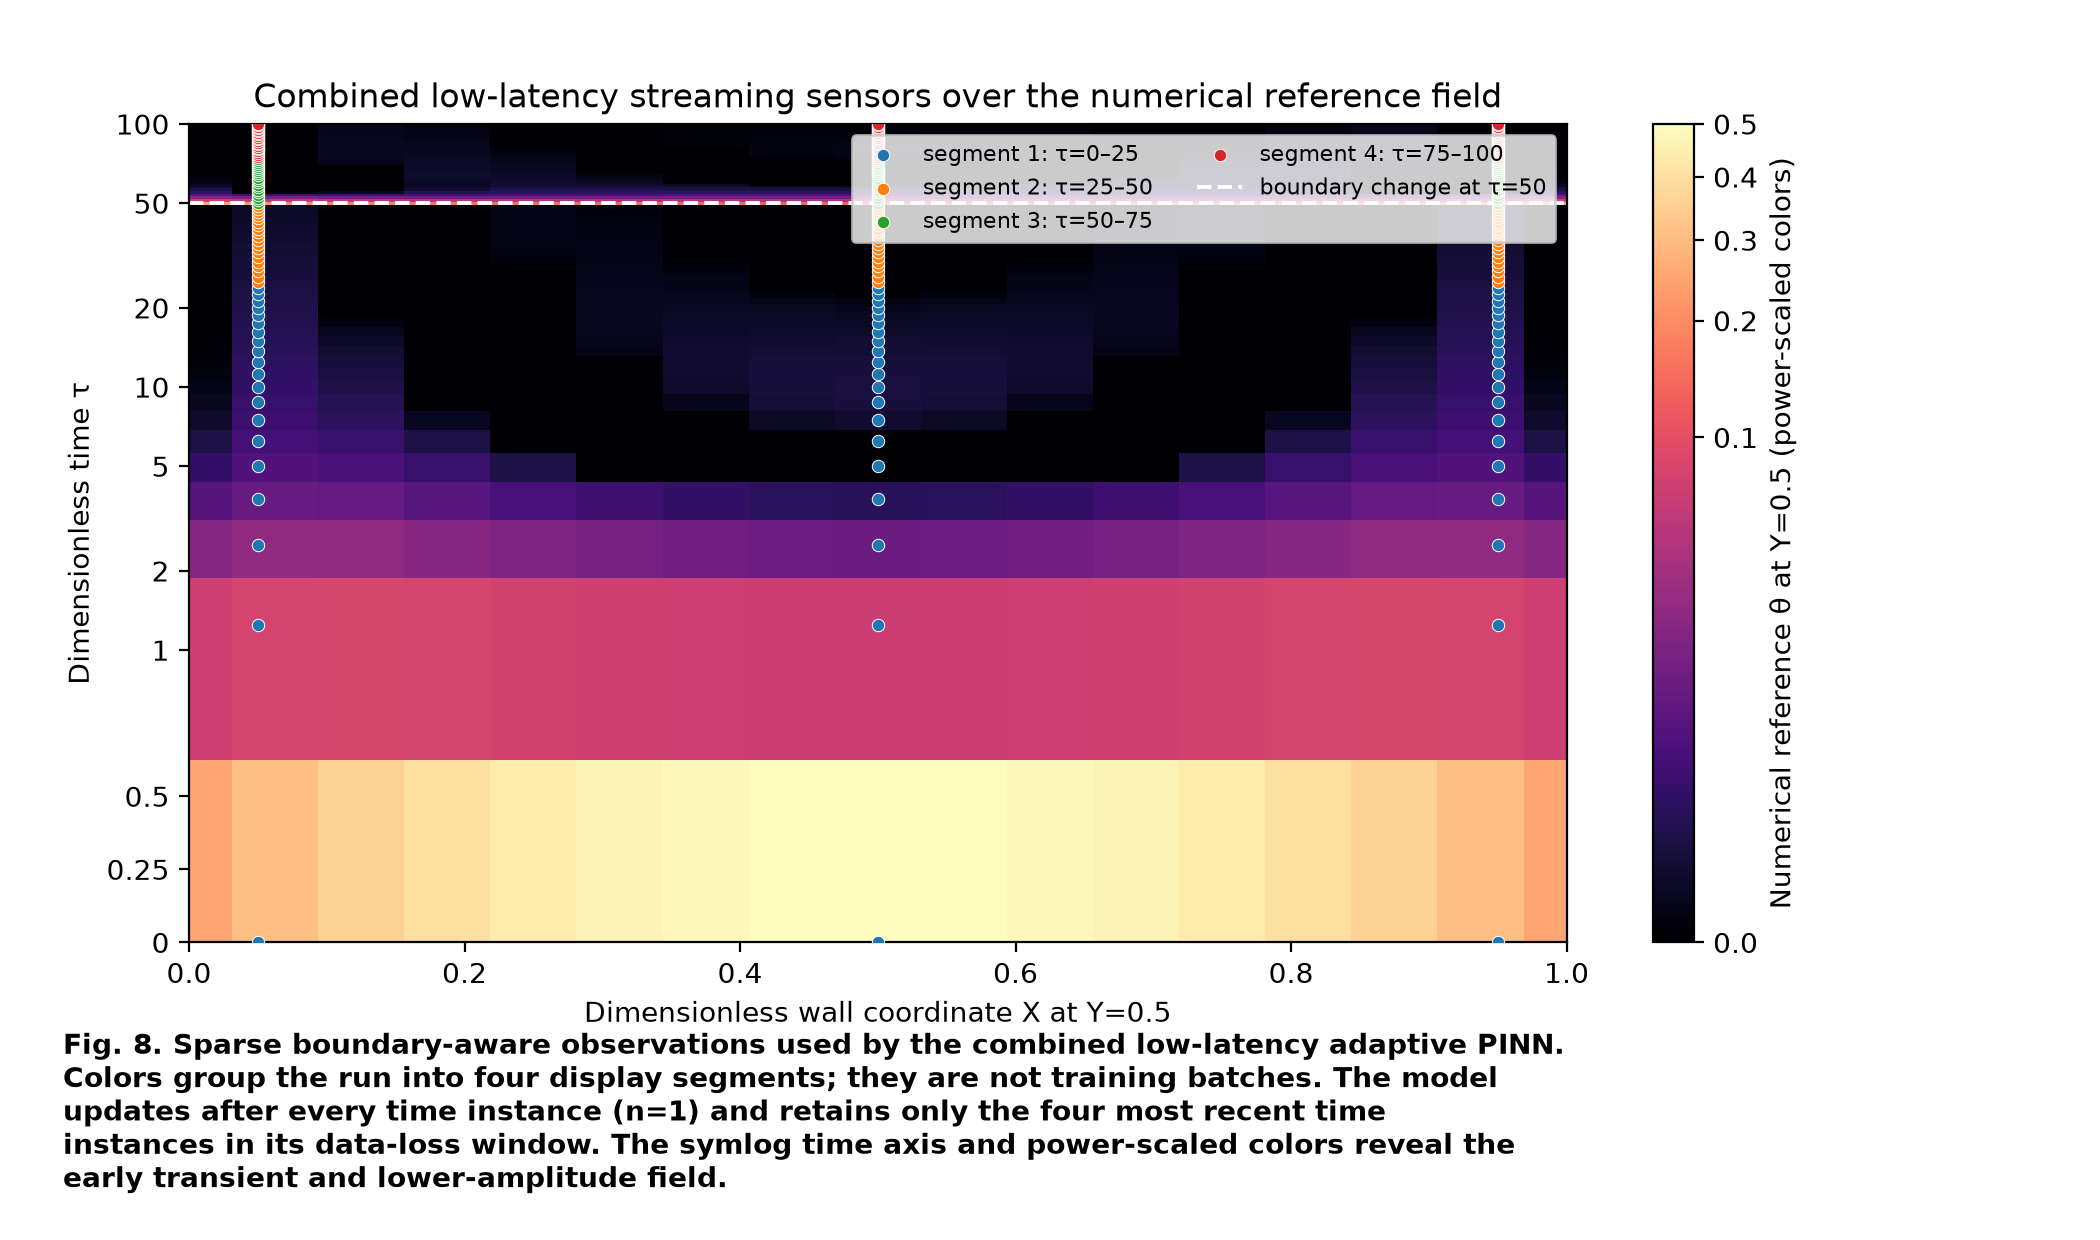
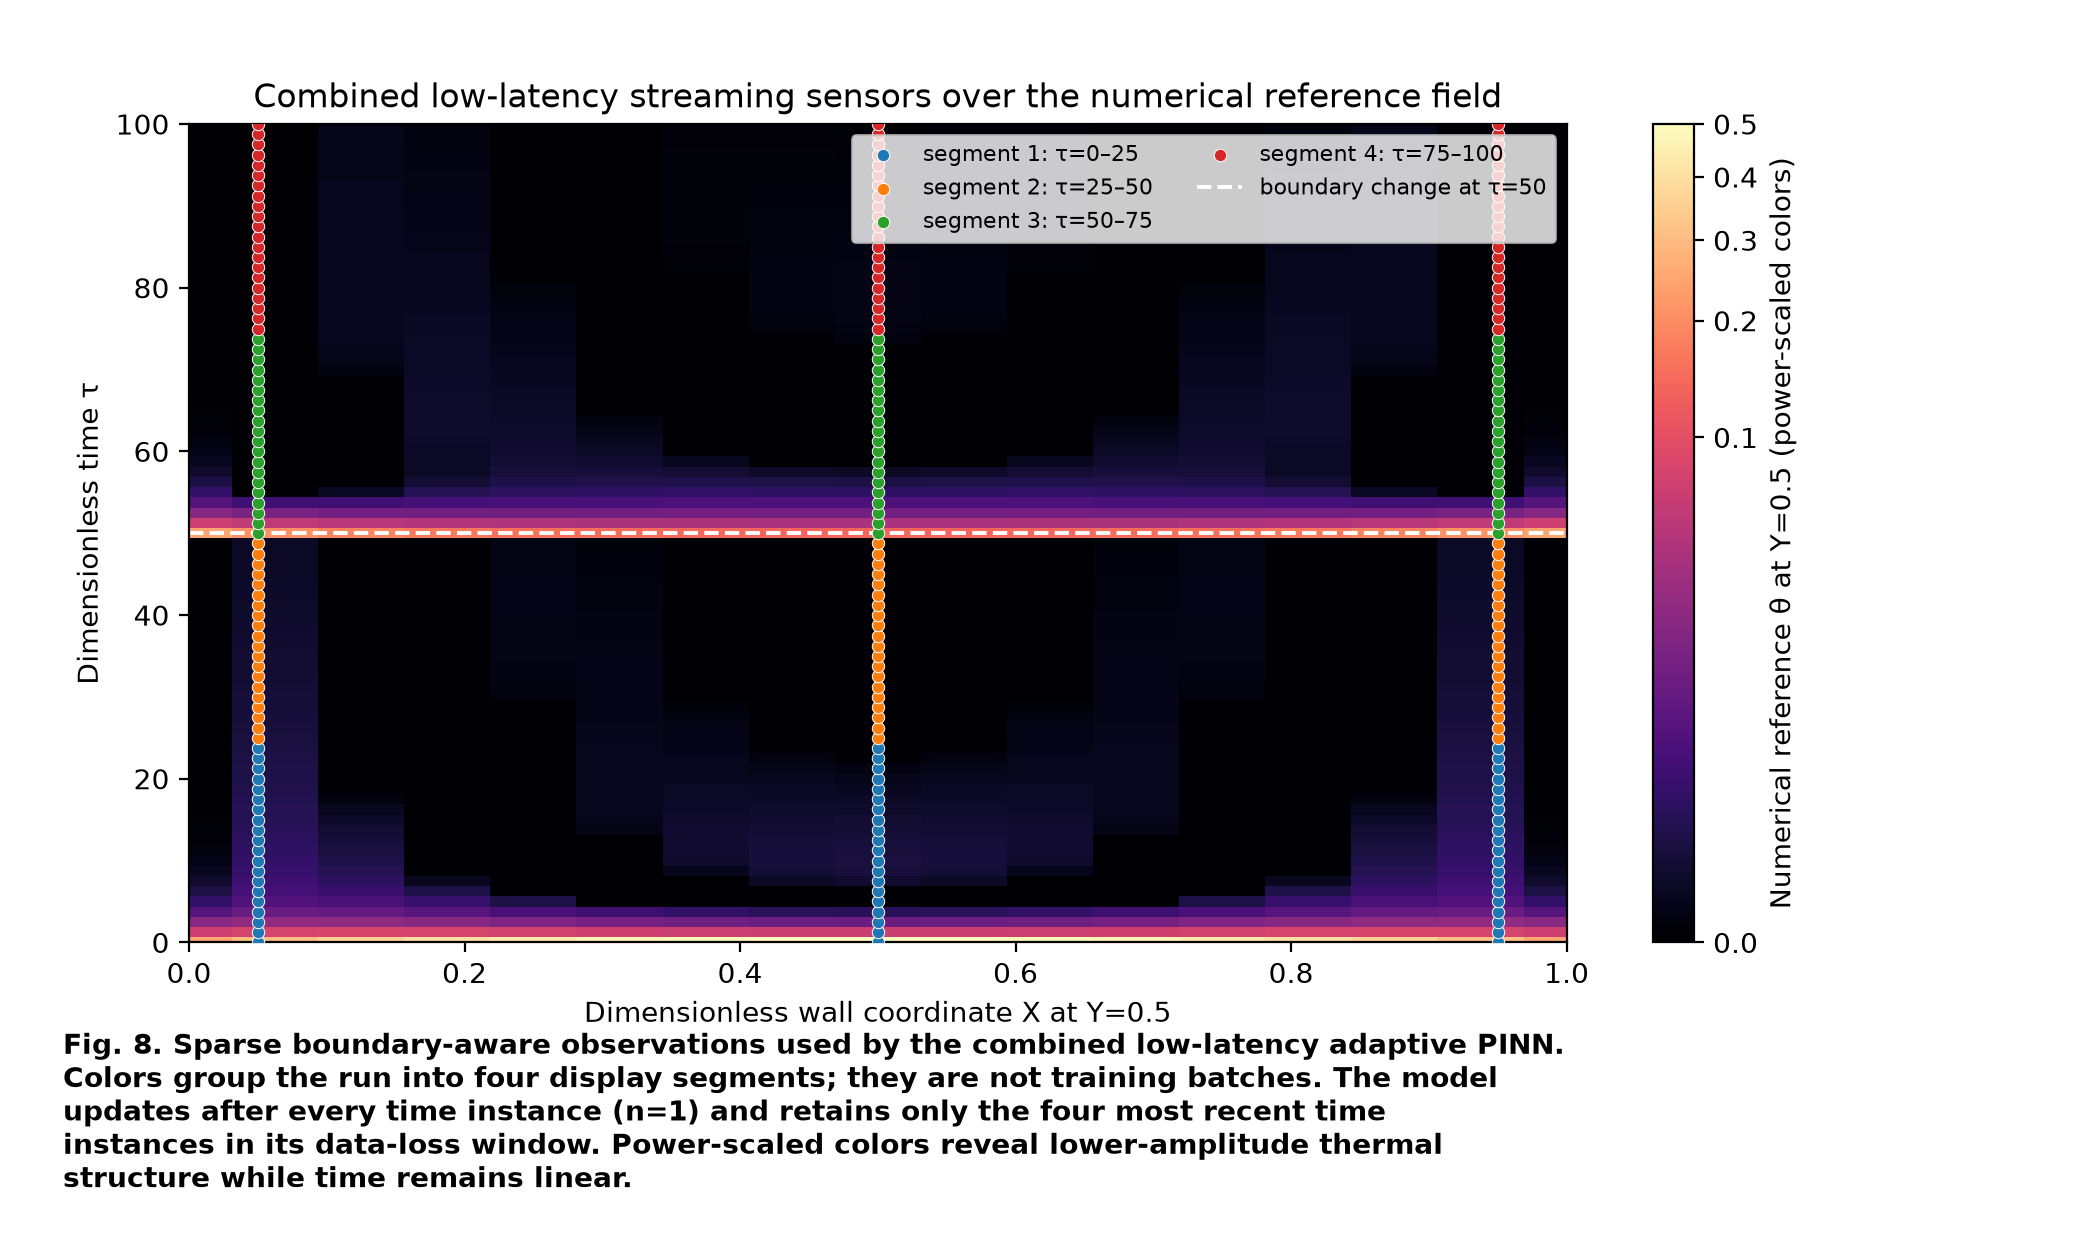
Restore linear time axis in sensor figure

diff --git a/Validated_Adaptive_PINN/combined_latency_figures.py b/Validated_Adaptive_PINN/combined_latency_figures.py
@@ -108,19 +108,14 @@ def plot_streaming_sensors(cfg, data, output_dir: Path, reference_slice=None):
         xlim=(0.0, 1.0),
         ylim=(0.0, cfg.tau_final),
     )
-    ax.set_yscale("symlog", linthresh=1.0, linscale=1.0)
-    informative_ticks = np.asarray((0.0, 0.25, 0.5, 1.0, 2.0, 5.0, 10.0, 20.0, 50.0, 100.0))
-    informative_ticks = informative_ticks[informative_ticks <= cfg.tau_final]
-    ax.set_yticks(informative_ticks)
-    ax.set_yticklabels([f"{value:g}" for value in informative_ticks])
     ax.legend(ncol=2, fontsize=8, loc="upper right")
     _caption(
         fig,
         "Fig. 8. Sparse boundary-aware observations used by the combined low-latency "
         "adaptive PINN. Colors group the run into four display segments; they are not "
         "training batches. The model updates after every time instance (n=1) and retains "
-        "only the four most recent time instances in its data-loss window. The symlog time "
-        "axis and power-scaled colors reveal the early transient and lower-amplitude field.",
+        "only the four most recent time instances in its data-loss window. Power-scaled "
+        "colors reveal lower-amplitude thermal structure while time remains linear.",
     )
     path = output_dir / "08_combined_streaming_sensors.png"
     fig.savefig(path, dpi=200)